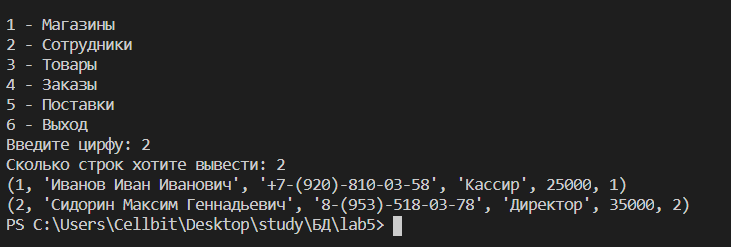
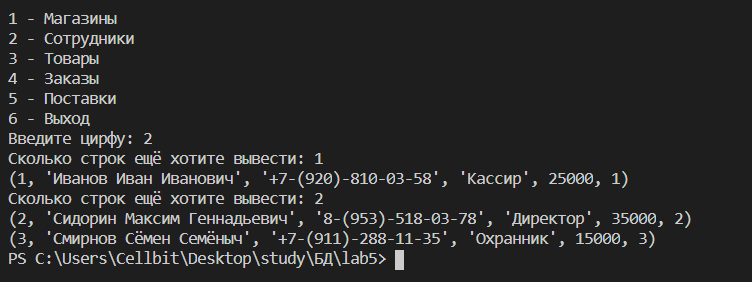
fix methods for output n str

Changed region(s): [[0.0, 0.3968, 0.9631, 0.9636], [0.0, 0.0283, 0.1806, 0.3684]]

diff --git a/product_shop.py b/product_shop.py
@@ -1,5 +1,6 @@
 from mySQL_BD import MySQL_DB
 from enum import Enum
+from itertools import tee
 
 
 #Перечисление для хранения типа операции с таблицами БД
@@ -217,9 +218,14 @@ class Product_shop:
             print("Несуществующий номер!")
             self.__selectTable = ""
 
-        count = int(input("Сколько строк хотите вывести: "))
-        db_query = "SELECT * FROM " + self.__selectTable + " LIMIT " + str(count)
-        results = self.__db.query_select_countStr(db_query, count)
-        for result in results:
-            print(result)
+        db_query = "SELECT * FROM " + self.__selectTable
+        howStrAlreadyReads = 0
+        results = self.__db.query_select_countStr(db_query)
+        newResults = tee(results)
+        lenResults = len(list(newResults))
+        while howStrAlreadyReads <= lenResults:
+            count = int(input("Сколько строк ещё хотите вывести: "))
+            for i in range(0, count):
+                print(next(results))
+            howStrAlreadyReads += count
 

diff --git a/mySQL_BD.py b/mySQL_BD.py
@@ -9,6 +9,7 @@ class MySQL_DB:
         try:
             self.__connection = pymysql.connect(host, username, password, name_DB)
             self.__cursor = self.__connection.cursor()
+            self.howStr = 0
         except pymysql.OperationalError as opErr:
             print(opErr)
         except RuntimeError as rErr:
@@ -60,10 +61,10 @@ class MySQL_DB:
             return None
 
     #функция-генератор для построчного чтения строк таблицы
-    def query_select_countStr(self, textSelect, count):
+    def query_select_countStr(self, textSelect):
         try:
-            self.__cursor.execute(textSelect)
-            for i in range(0, count):
+            self.howStr = self.__cursor.execute(textSelect)
+            for i in range(0, self.howStr):
                 yield self.__cursor.fetchone()
         except pymysql.ProgrammingError as progErr:
             print(progErr)
